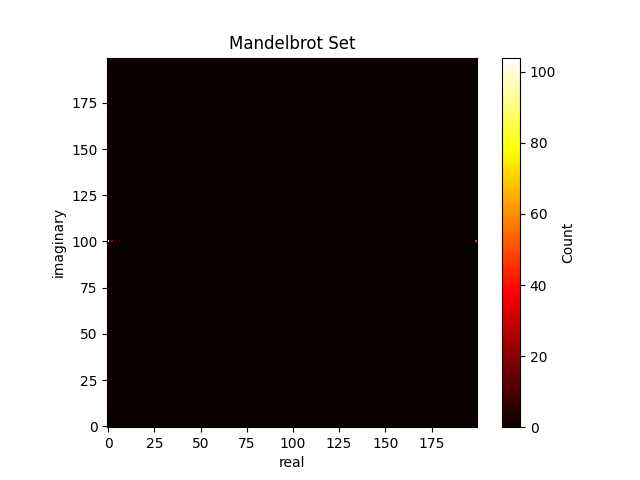
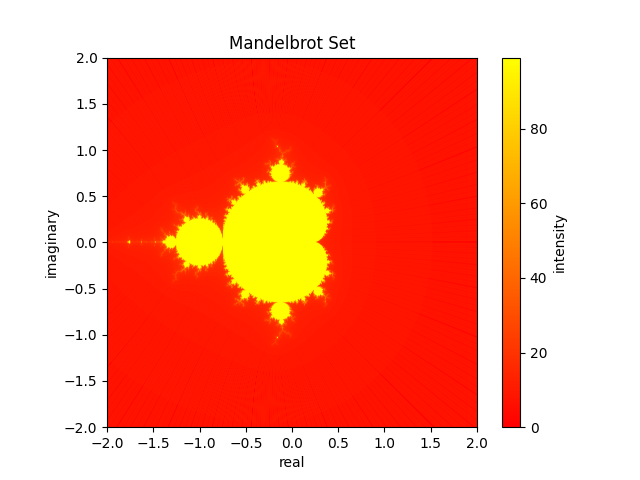
Finished problem 4

diff --git a/ps-2/problem4.py b/ps-2/problem4.py
@@ -1,14 +1,14 @@
 import numpy as np
 import matplotlib.pyplot as plt
 
-N = 200
+N = 10000
 
 def Mandelbrot(c, it):
     z = c
-    iterations = 0
     for i in range(100):
         z = (z ** 2) + c
-        it[np.abs(z>2)] = i
+        tf_array = np.abs(z <= 2)
+        it[tf_array] = i
 
     it[np.abs(z == 0)] = 100
     return it
@@ -18,21 +18,18 @@ y = np.linspace(-2, 2, N)
 X, Y = np.meshgrid(x, y)
 
 c = X + Y*1j
-i = np.zeros(len(c))
+
+i = np.zeros(len(X) ** 2).reshape(c.shape)
 iterations = Mandelbrot(c, i)
-print(iterations)
 
 
 
-iterations = iterations.reshape((len(X), 2))
+plt.imshow(iterations, extent=(-2, 2, -2, 2), cmap="autumn")
+plt.colorbar(label='intensity')
 
 
-plt.imshow(iterations, extent=(-2, 2, -2, 2))
-# plt.colorbar(label='Count')
-
-
-# plt.xlabel('real')
-# plt.ylabel('imaginary')
-# plt.title('Mandelbrot Set')
+plt.xlabel('real')
+plt.ylabel('imaginary')
+plt.title('Mandelbrot Set')
 plt.savefig("PS-2/plots/mandelbrot")
 
